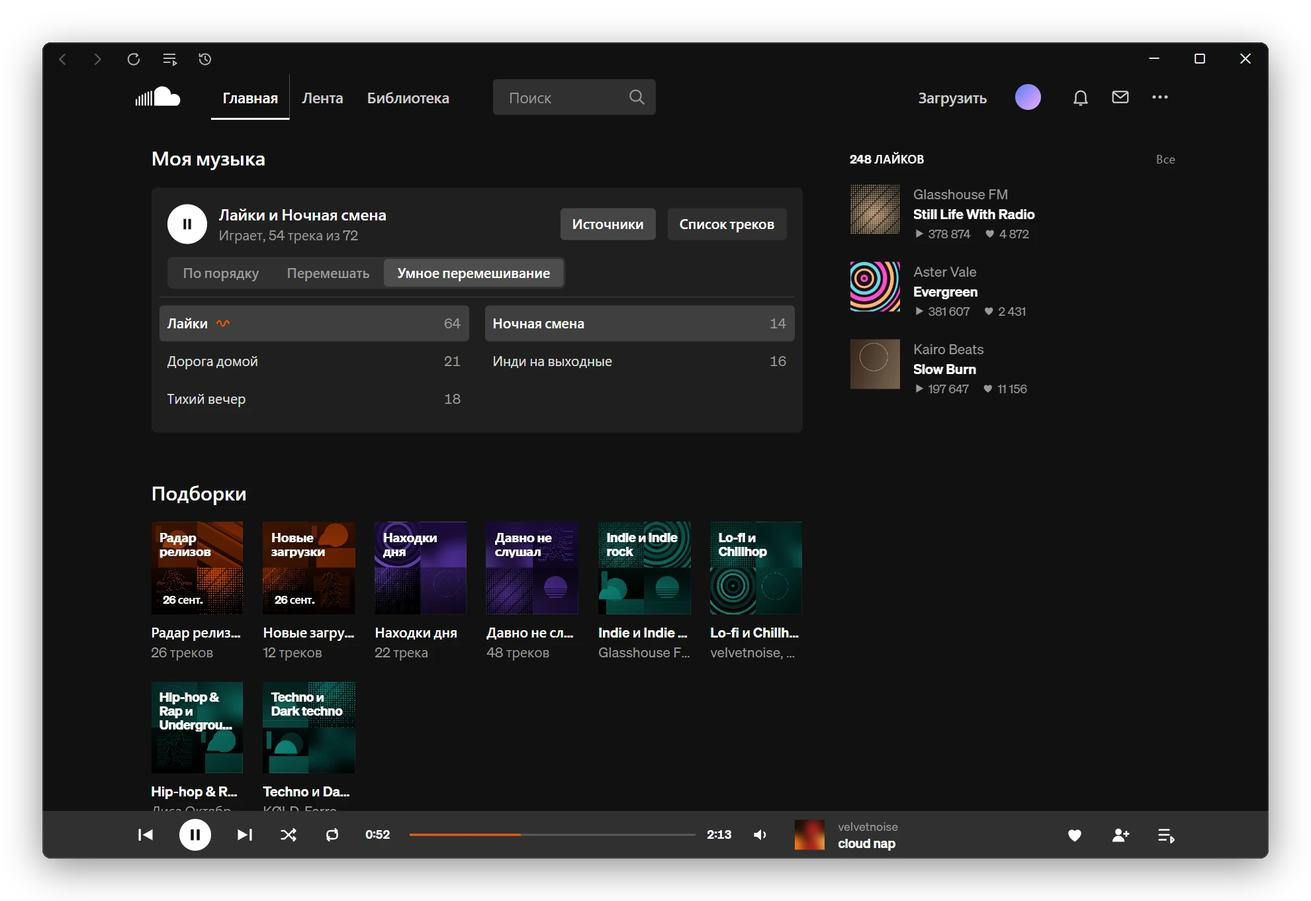
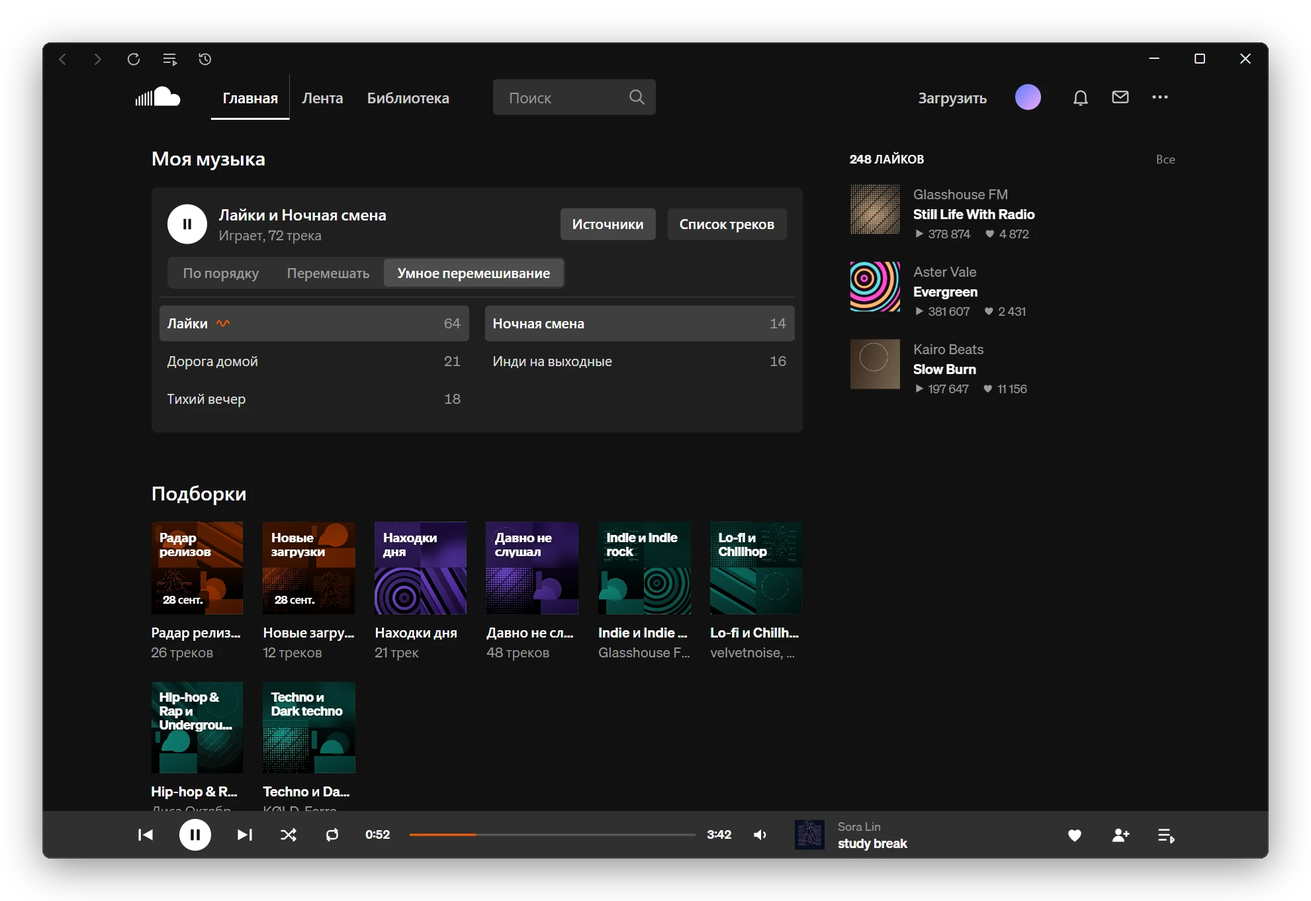
README и снимки для 0.11.0
Настроение, закрепления, реакция волны в сессии, волна по жанру, горячие клавиши волны, новые названия набора и сохранённых очередей, снимки со стенда.

diff --git a/README.md b/README.md
@@ -8,7 +8,7 @@
 
 <a href="https://github.com/zxczxczxczxczxczxc1111/soundcloud-desktop/releases/latest"><img src="assets/readme/download.svg" width="248" height="48" alt="Скачать для Windows"></a>
 
-<sub>Версия 0.10.0 для Windows 10 и 11 x64</sub>
+<sub>Версия 0.11.0 для Windows 10 и 11 x64</sub>
 
 <a href="#моя-волна">Моя волна</a>&emsp;<a href="#радар-релизов">Радар релизов</a>&emsp;<a href="#история">История</a>&emsp;<a href="#что-ещё-есть-в-клиенте">Что ещё есть</a>&emsp;<a href="#установка">Установка</a>
 
@@ -16,7 +16,7 @@
 
 <br>
 
-<img src="assets/readme/wave.webp" width="100%" alt="Главная клиента: играет «Моя волна», ниже очередь и блок «Моя музыка»">
+<img src="assets/readme/wave.webp" width="100%" alt="Главная клиента: играет «Моя волна» на подложке в цвет обложки, ниже очередь, пресеты настроения, закрепления и блок «Моя музыка»">
 
 Это soundcloud.com в своём окне, только главная другая: вместо полок сайта твоя волна, подборки на день и пятничный радар релизов. Клиент ведёт журнал того, что ты слушаешь, по нему подбирает треки и показывает историю. Журнал лежит только у тебя на компьютере.
 
@@ -25,19 +25,21 @@
 Жмёшь play, и клиент собирает бесконечную очередь из похожего на то, что ты слушаешь и лайкаешь. Пока трек играет, очередь догружается, один артист не идёт подряд, а под треком подписано, почему он в волне. Что ещё умеет волна:
 
 - **Похожее или новое**: «Похожее» подбирает треки вокруг твоих лайков и истории, «Новое» берёт треки в твоём вкусе, которых ты ещё не слышал. Жанры можно задать своими словами: `techno, dark techno`.
-- **Вкус по тому, как ты слушаешь**: дослушанный трек, пропуск в первые 30 секунд и лайк меняют то, что волна поставит дальше. Свою картину твоего вкуса и то, насколько она попадает, волна показывает на странице истории.
-- **«Больше такого» и «Не сейчас»**: кнопки у играющего трека. Первая добавляет в волну похожее, вторая убирает трек из волны на неделю. Из меню по правой кнопке так же убирается артист, а «Не нравится» и «Не показывать аккаунт» убирают насовсем.
-- **Волна от чего угодно**: нажми правой кнопкой на трек, артиста или плейлист на сайте, и волна начнётся от него. Когда похожее кончится, продолжит станция трека.
+- **Настроение**: под очередью волны пресеты «Весёлое», «Грустное», «Агрессивное», «Спокойное» и «Энергичное». Пресет действует со следующего трека и запоминает, что ты пропускаешь именно в нём.
+- **Вкус по тому, как ты слушаешь**: дослушанный трек, пропуск в первые 30 секунд и лайк меняют то, что волна поставит дальше. Ранний пропуск сразу убирает похожее впереди, три пропуска подряд меняют курс, после лайка похожие встают ближе. Свою картину твоего вкуса и то, насколько она попадает, волна показывает на странице истории.
+- **«Больше такого», «Не сейчас» и «Не нравится»**: кнопки у играющего трека. Первая добавляет в волну похожее, вторая убирает трек на неделю, третья насовсем, а плашка после них даёт отменить. Из меню по правой кнопке так же убирается артист, а «Не показывать аккаунт» скрывает его насовсем.
+- **Волна от чего угодно**: нажми правой кнопкой на трек, артиста, плейлист или жанр (метку трека, страницу жанра, карточку жанра в подборках), и волна начнётся от него. Когда похожее кончится, продолжит станция трека.
+- **Закрепления**: плейлист, артиста или жанр можно закрепить на главной из того же меню, до 12 штук. Закрепления стоят рядом с пресетами и включают волну от себя одним нажатием.
 - **«Встряхнуть»**: меняет треки впереди, играющий не прерывается.
 - **Версии трека**: волна различает оригинал, slowed, sped up, ремиксы и лайвы, а перезалив той же версии второй раз не ставит. «Версии этого трека» в меню покажет остальные, «Скрыть другие версии» уберёт их из волны и радара.
 
 ### Моя музыка
 
-Под волной блок с твоими лайками и плейлистами, своими и сохранёнными. В «Источниках» выбираешь, что играть, можно сразу несколько. Выбранное подсвечено, а значок волны стоит у источника, откуда играет текущий трек. Порядок: «По порядку», «Перемешать» (один артист не идёт подряд, слышанное за 3 дня пропускается) или «Умное перемешивание», где после каждых трёх своих треков идёт похожий, которого у тебя ещё нет.
+Под волной блок с твоими лайками и плейлистами, своими и сохранёнными. В «Источниках» выбираешь, что играть, можно сразу несколько. Выбранное подсвечено, а значок волны стоит у источника, откуда играет текущий трек. Порядок: «По порядку», «Перемешать» (один артист не идёт подряд, треки, игравшие последние 3 дня, уходят в конец) или «Умное перемешивание», где после каждых трёх своих треков идёт похожий, которого у тебя ещё нет.
 
-Источники и порядок можно менять во время игры: текущий трек не прерывается, меняются только треки впереди. Когда перемешивание пропускает слышанное за 3 дня, статус показывает, сколько пойдёт в очередь: «54 трека из 72».
+Источники и порядок можно менять во время игры: текущий трек не прерывается, меняются только треки впереди. В статусе число треков, которые сыграют целиком, а отрывки Go+ и закрытое в стране идут отдельной пометкой: «377 треков, 69 недоступны».
 
-<img src="assets/readme/library.webp" width="100%" alt="Блок «Моя музыка»: играют лайки и плейлист «Ночная смена», 54 трека из 72, открыт выбор источников со значком волны у лайков">
+<img src="assets/readme/library.webp" width="100%" alt="Блок «Моя музыка»: играют лайки и плейлист «Ночная смена», 72 трека, открыт выбор источников со значком волны у лайков">
 
 ### Подборки на каждый день
 
@@ -45,11 +47,11 @@
 
 - **Радар релизов и новые загрузки**: первыми на полке, подробнее [ниже](#радар-релизов).
 - **Находки дня**: треки, которых ты ещё не слышал, из похожих на любимое. Список меняется в полночь.
-- **Давно не слушал**: твои лайки, которые давно не звучали.
-- **Твои вкусы**: клиент делит лайки и то, что ты дослушиваешь, по жанрам, до восьми групп, и у каждой своя волна.
-- **Своя подборка**: выбери до пяти треков пунктом «Добавить в подборку» в меню, и волна пойдёт от них.
+- **Давно не слушал**: твои лайки, которые давно не звучали, каждый день новая выборка.
+- **Твои вкусы**: клиент делит лайки и то, что ты дослушиваешь, по жанрам, до восьми групп. У каждой своя волна и каждый день своя выборка треков.
+- **Набор**: выбери до пяти треков пунктом «Добавить в набор» в меню, и волна пойдёт от них.
 
-Нажми на карточку, и под полкой раскроется её список. Любой трек из него можно включить первым, а за ним пойдёт остальная подборка.
+Нажми на карточку, и под полкой раскроется её список, даже в маленьком окне он сам встанет в поле зрения. Любой трек из него можно включить первым, а за ним пойдёт остальная подборка.
 
 <img src="assets/readme/mixes.webp" width="100%" alt="Раскрытая подборка Indie и Indie rock: список треков в две колонки, играющий подсвечен">
 
@@ -59,9 +61,9 @@
 
 ### Очередь и продолжение прослушивания
 
-Кнопка очереди в шапке открывает список треков. В меню трека можно поставить его следующим или добавить в конец, а будущие треки в очереди переставлять и удалять. Очередь можно сохранить как локальную подборку и включить позже; плейлист в аккаунте SoundCloud при этом не создаётся.
+Кнопка очереди в шапке открывает список треков. В меню трека можно поставить его следующим или добавить в конец, а будущие треки в очереди переставлять и удалять. Очередь можно сохранить и включить позже из «Сохранённых очередей»; плейлист в аккаунте SoundCloud при этом не создаётся.
 
-<img src="assets/readme/queue.webp" width="100%" alt="Окно очереди: треки выпуска радара, играющий подсвечен, ниже сохранённые подборки">
+<img src="assets/readme/queue.webp" width="100%" alt="Окно очереди: треки выпуска радара, играющий подсвечен, ниже сохранённые очереди">
 
 После перезапуска клиент восстанавливает очередь, источник волны и позицию, а музыку держит на паузе, пока ты не нажмёшь play. При временном сбое сети показывает статус и повторяет подключение, сохраняя очередь. Если страница упала, зависла или открылась без сети, клиент поднимает её сам.
 
@@ -72,10 +74,10 @@
 - **Сначала твоё**: наверху треки, связанные с твоим вкусом, в конце до 10 открытий по твоим жанрам. От одного канала в выпуске не больше трёх треков.
 - **Новые загрузки отдельно**: если канал за неделю выгрузил пачку треков без даты релиза, клиент считает её старым каталогом. Два лучших трека остаются в выпуске, остальные уходят в свою карточку.
 - **Строка на исполнителя**: несколько треков одного артиста собраны в одну строку. Метка альбома или «+N» раскрывает остальные, «Слушать все» ставит их следующими.
-- **«Уже слышал»**: клиент помечает треки, которые ты уже слушал.
+- **«Уже слышал»**: треки, которые ты уже слушал или лайкнул, клиент помечает и ставит в конец выпуска.
 - **Архив и «Все найденные»**: прошлый выпуск выбираешь в списке над треками, а «Все найденные» покажут всё, что клиент нашёл за неделю, с фильтром по релизам и загрузкам.
 
-<img src="assets/readme/radar.webp" width="100%" alt="Раскрытый радар релизов: список выпуска в две колонки, отметки «Уже слышал», архив выпусков и кнопка «Все найденные»">
+<img src="assets/readme/radar.webp" width="100%" alt="Раскрытый радар релизов: список выпуска в две колонки, группы артистов, архив выпусков и кнопка «Все найденные»">
 
 Выпуск играет по порядку, после него волна продолжает похожим. День и время выпуска меняешь в <kbd>F1</kbd> → Моя волна. Если в это время клиент был закрыт, он соберёт выпуск при следующем запуске.
 
@@ -88,7 +90,7 @@
 - **Вкус глазами волны**: артисты и теги, на которые она опирается. Лишнего артиста или тег можно убрать из вкуса.
 - **Как попадает волна**: сколько треков волны ты пропускаешь в первые 30 секунд и сколько дослушиваешь, рядом со своей музыкой и прошлым периодом. Там же лайки, «Больше такого», отказы, новые артисты, пропуски по дням и разбор по подборкам, причинам подбора и месту трека в очереди.
 
-<img src="assets/readme/history.webp" width="100%" alt="Страница истории: 35 с половиной часов музыки за 30 дней, столбики по дням, любимые артисты">
+<img src="assets/readme/history.webp" width="100%" alt="Страница истории: 29 часов 36 минут музыки за 30 дней, столбики по дням, любимые артисты">
 
 <table>
   <tr>
@@ -101,7 +103,7 @@
   </tr>
 </table>
 
-<img src="assets/readme/history-wave.webp" width="100%" alt="Блок «Как попадает волна» за 30 дней: 11% пропущено до 0:30, 70% дослушано, пропуски по дням, разбор по подборкам, причинам и месту в выдаче">
+<img src="assets/readme/history-wave.webp" width="100%" alt="Блок «Как попадает волна» за 30 дней: 9% пропущено до 0:30, 75% дослушано, пропуски по дням, разбор по подборкам, причинам, месту в выдаче и тому, откуда взят трек">
 
 Трек засчитывается с 30 секунд звука. История своя у каждого аккаунта и лежит в `%APPDATA%\soundcloud-desktop`.
 
@@ -183,7 +185,7 @@
 
 ## Установка
 
-Бери установщик `soundcloud-desktop-0.10.0-setup-x64.exe` на странице [последнего релиза](https://github.com/zxczxczxczxczxczxc1111/soundcloud-desktop/releases/latest). Рядом лежит `SHA256SUMS`, если захочешь сверить файлы.
+Бери установщик `soundcloud-desktop-0.11.0-setup-x64.exe` на странице [последнего релиза](https://github.com/zxczxczxczxczxczxc1111/soundcloud-desktop/releases/latest). Рядом лежит `SHA256SUMS`, если захочешь сверить файлы.
 
 Клиент обновляется сам: новую версию качает в фоне и ставит, когда ты его закрываешь. Выключить это можно переключателем «Проверять обновления» внизу настроек.
 
@@ -205,6 +207,10 @@
 | <kbd>Ctrl</kbd> + <kbd>B</kbd> или <kbd>Ctrl</kbd> + <kbd>P</kbd> | Назад |
 | <kbd>Ctrl</kbd> + <kbd>F</kbd> или <kbd>Ctrl</kbd> + <kbd>N</kbd> | Вперёд |
 | <kbd>Ctrl</kbd> + <kbd>R</kbd> | Обновить страницу |
+| <kbd>Ctrl</kbd> + <kbd>L</kbd> | Лайк играющего трека |
+| <kbd>Ctrl</kbd> + <kbd>D</kbd> | «Не сейчас» у играющего трека |
+| <kbd>Ctrl</kbd> + <kbd>M</kbd> | «Больше такого» у играющего трека |
+| <kbd>Ctrl</kbd> + <kbd>S</kbd> | «Встряхнуть» волну |
 | <kbd>Ctrl</kbd> + <kbd>Shift</kbd> + <kbd>N</kbd> | Инкогнито в Discord |
 | <kbd>Ctrl</kbd> + <kbd>=</kbd> / <kbd>Ctrl</kbd> + <kbd>-</kbd> / <kbd>Ctrl</kbd> + <kbd>0</kbd> | Масштаб больше, меньше, сбросить |
 
